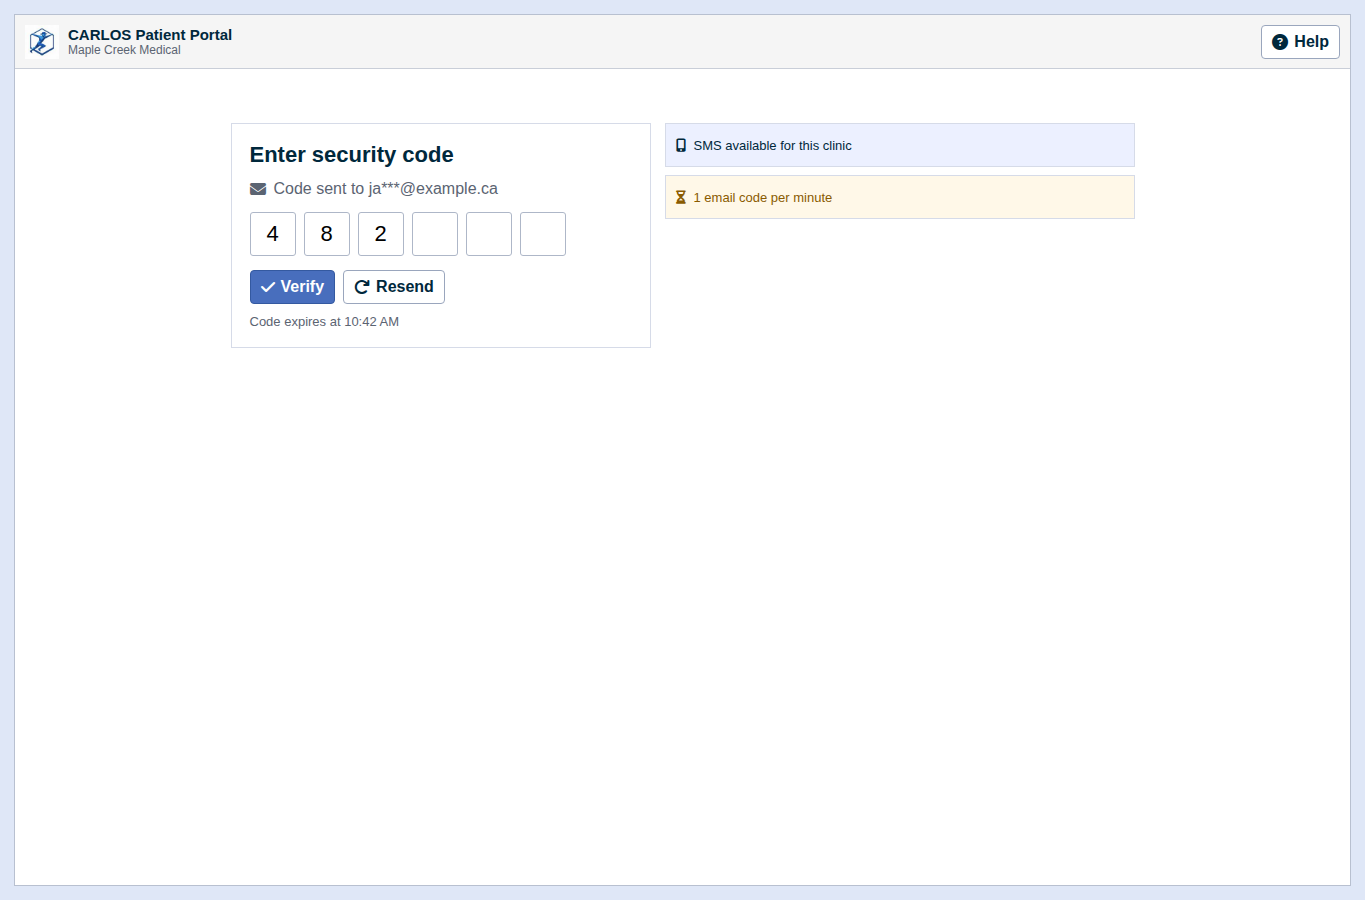
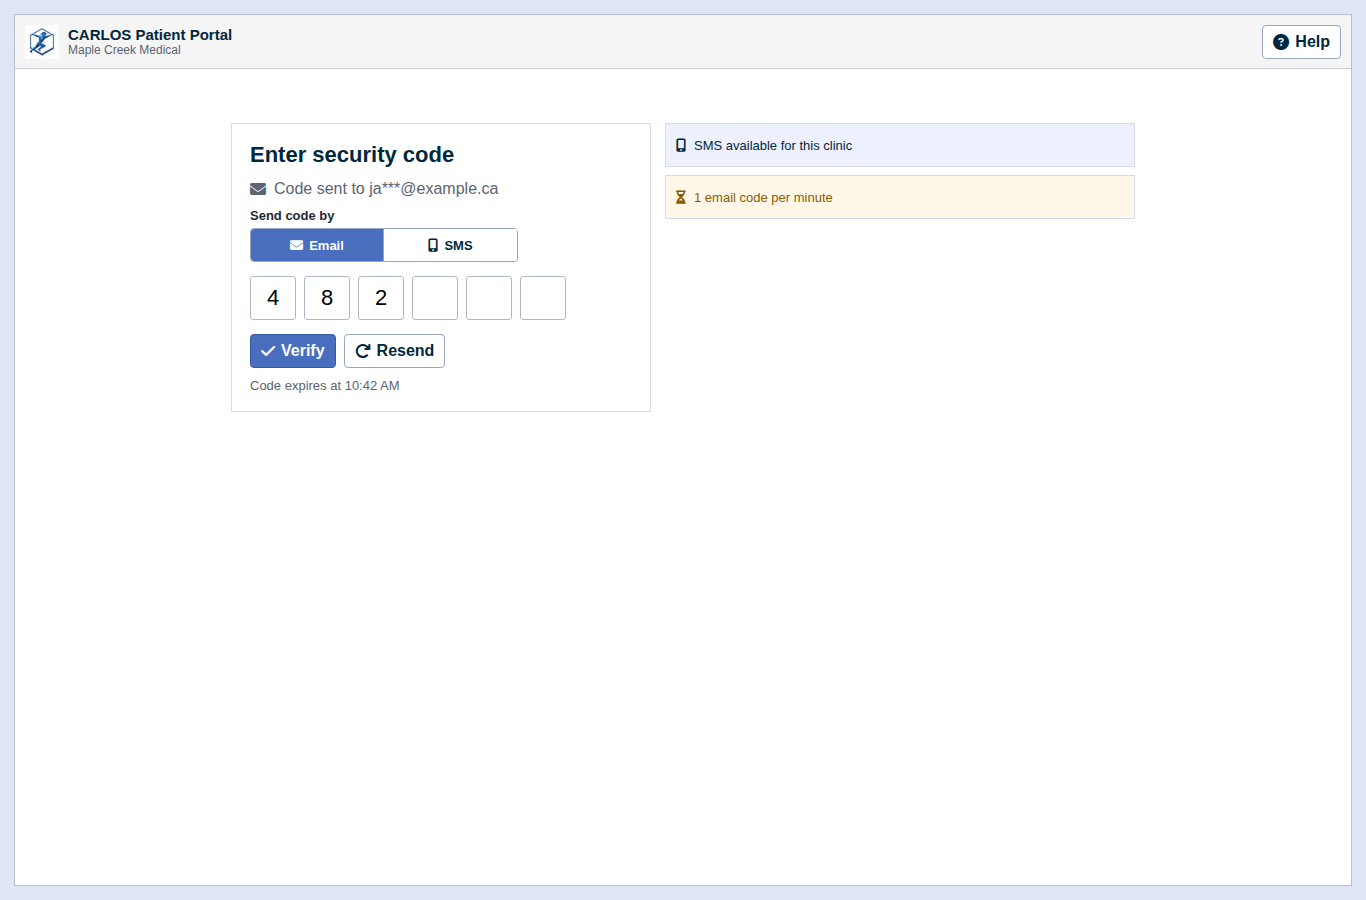
docs: add MFA SMS switch mock

Changed region(s): [[0.1846, 0.1556, 0.3692, 0.4356], [0.4923, 0.1556, 0.6154, 0.1867], [0.5231, 0.2178, 0.6154, 0.2489]]

diff --git a/patient-portal-mocks/index.html b/patient-portal-mocks/index.html
@@ -70,9 +70,20 @@
         <div class="auth-layout">
           <section class="auth-panel" aria-labelledby="mfa-title">
             <h1 id="mfa-title">Enter security code</h1>
-            <div class="destination-line">
-              <i class="fas fa-envelope"></i>
-              <span>Code sent to ja***@example.ca</span>
+            <div class="destination-line" aria-live="polite">
+              <i class="fas fa-envelope" data-mfa-destination-icon></i>
+              <span data-mfa-destination>Code sent to ja***@example.ca</span>
+            </div>
+            <div class="mfa-method-switch">
+              <span>Send code by</span>
+              <div class="segmented-control" role="group" aria-label="MFA delivery method">
+                <button class="selected" type="button" aria-pressed="true" data-mfa-method data-icon="fa-envelope" data-destination="Code sent to ja***@example.ca" data-rate="1 email code per minute">
+                  <i class="fas fa-envelope"></i><span>Email</span>
+                </button>
+                <button type="button" aria-pressed="false" data-mfa-method data-icon="fa-mobile-alt" data-destination="Code sent to ***-***-1284" data-rate="1 SMS code per 5 minutes">
+                  <i class="fas fa-mobile-alt"></i><span>SMS</span>
+                </button>
+              </div>
             </div>
             <div class="code-row" aria-label="Security code">
               <input inputmode="numeric" maxlength="1" value="4">
@@ -96,7 +107,7 @@
             </div>
             <div class="status-item warn">
               <i class="fas fa-hourglass-half"></i>
-              <span>1 email code per minute</span>
+              <span data-mfa-rate>1 email code per minute</span>
             </div>
           </section>
         </div>
@@ -465,6 +476,25 @@
         button.setAttribute('title', nextType === 'password' ? 'Show password' : 'Hide password');
         button.querySelector('i')?.classList.toggle('fa-eye', nextType === 'password');
         button.querySelector('i')?.classList.toggle('fa-eye-slash', nextType !== 'password');
+      });
+    });
+
+    document.querySelectorAll('[data-mfa-method]').forEach((button) => {
+      button.addEventListener('click', () => {
+        const panel = button.closest('.auth-panel');
+        const destination = panel?.querySelector('[data-mfa-destination]');
+        const destinationIcon = panel?.querySelector('[data-mfa-destination-icon]');
+        const rate = document.querySelector('[data-mfa-rate]');
+        document.querySelectorAll('[data-mfa-method]').forEach((option) => {
+          const selected = option === button;
+          option.classList.toggle('selected', selected);
+          option.setAttribute('aria-pressed', selected ? 'true' : 'false');
+        });
+        if (destination) destination.textContent = button.dataset.destination;
+        if (rate) rate.textContent = button.dataset.rate;
+        if (destinationIcon) {
+          destinationIcon.className = `fas ${button.dataset.icon}`;
+        }
       });
     });
 

diff --git a/patient-portal-mocks/styles.css b/patient-portal-mocks/styles.css
@@ -392,8 +392,55 @@ h2 {
   display: flex;
   gap: 8px;
   align-items: center;
-  margin-bottom: 14px;
+  margin-bottom: 10px;
   color: var(--muted);
+}
+
+.mfa-method-switch {
+  display: grid;
+  gap: 5px;
+  margin-bottom: 14px;
+  color: #1f2937;
+  font-size: 13px;
+  font-weight: bold;
+}
+
+.segmented-control {
+  display: inline-grid;
+  grid-template-columns: repeat(2, minmax(0, 1fr));
+  width: min(100%, 268px);
+  border: 1px solid #9aa6bd;
+  border-radius: 4px;
+  overflow: hidden;
+}
+
+.segmented-control button {
+  display: inline-flex;
+  align-items: center;
+  justify-content: center;
+  gap: 6px;
+  min-height: 32px;
+  padding: 5px 10px;
+  color: var(--carlos-blue-dark);
+  background: #fff;
+  border: 0;
+  border-right: 1px solid #9aa6bd;
+  font-weight: bold;
+}
+
+.segmented-control button:last-child {
+  border-right: 0;
+}
+
+.segmented-control button.selected,
+.segmented-control button:hover {
+  color: #fff;
+  background: var(--carlos-blue);
+}
+
+.segmented-control button:focus {
+  outline: 2px solid var(--focus);
+  outline-offset: -2px;
 }
 
 .code-row {
